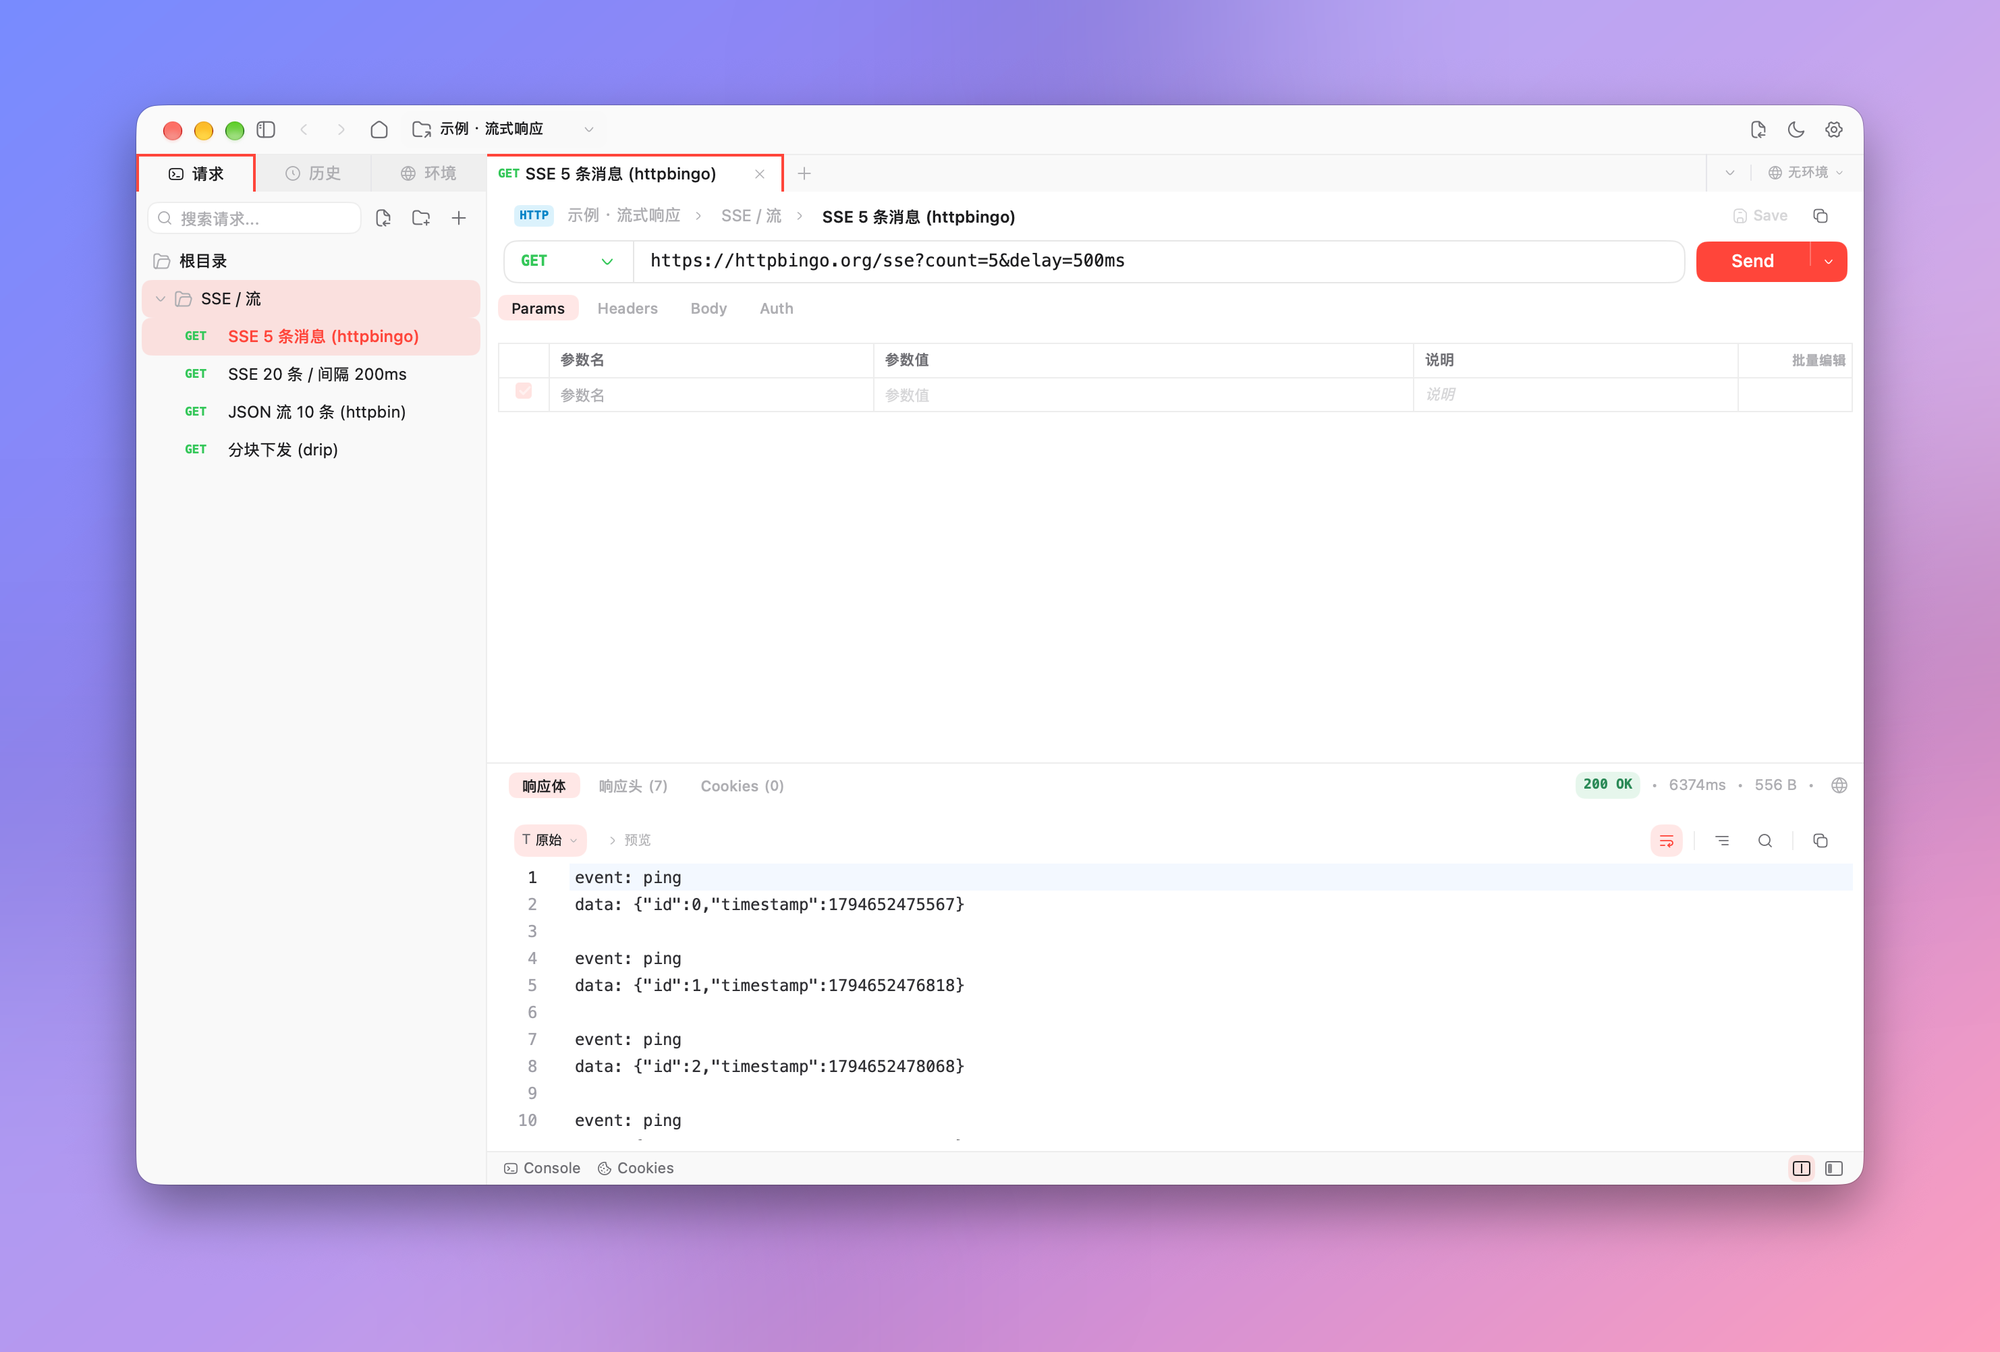
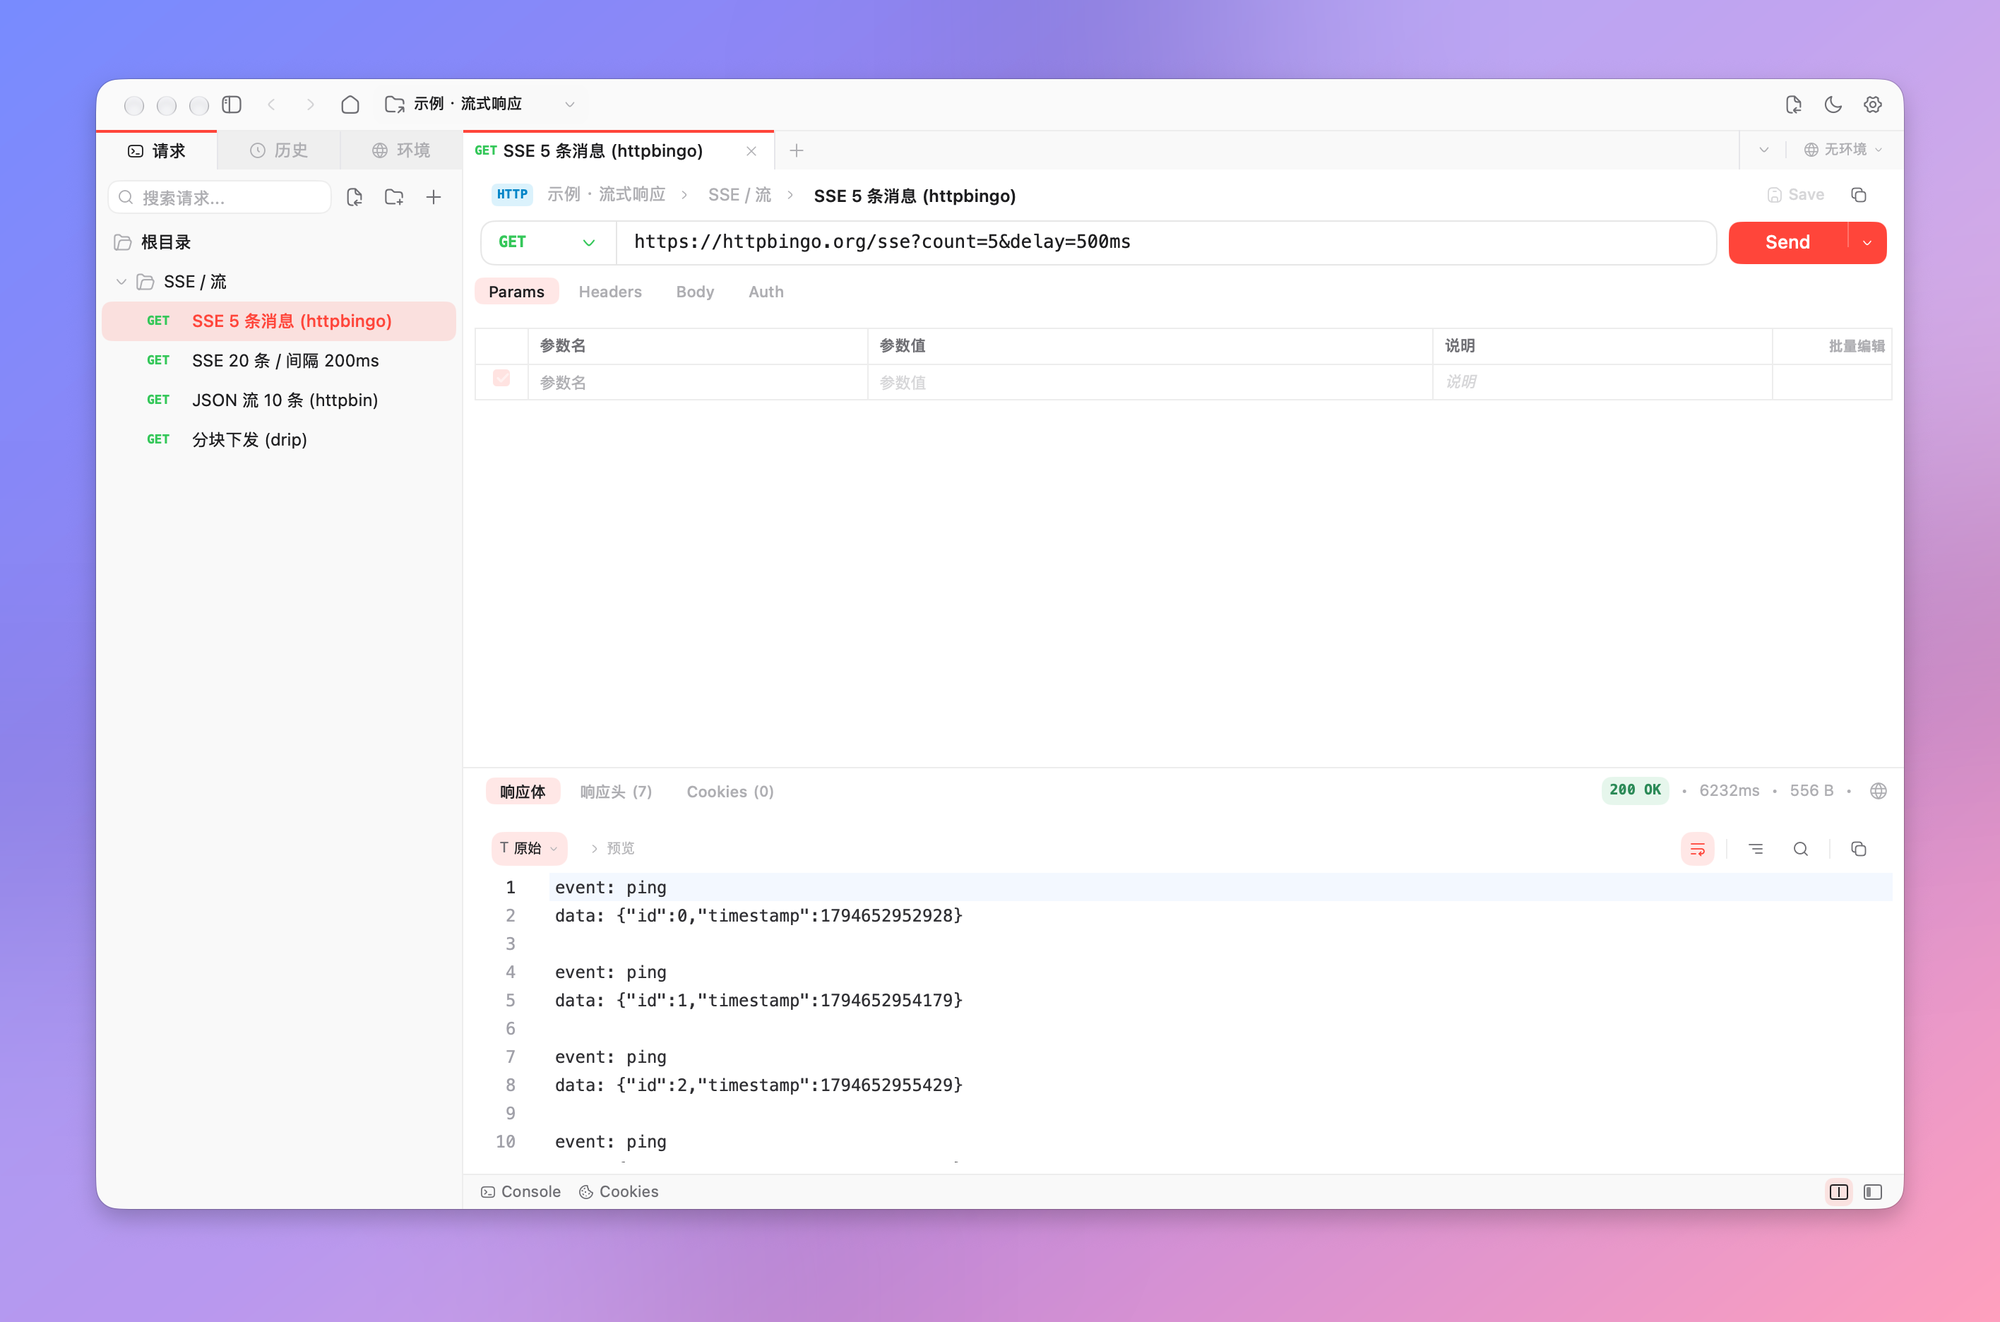
fix: 标签仅保留顶部高亮，侧栏只高亮一行，更新 README 截图

diff --git a/internal/gui/tabbar_test.go b/internal/gui/tabbar_test.go
@@ -119,45 +119,34 @@ func TestTabStripHasSingleTopLine(t *testing.T) {
 	}
 }
 
-// 相邻标签之间不会叠出加粗的竖线：沿标签条中部横扫，任何一条竖线都只有 1px 宽。
-func TestTabStripNoThickVerticalLines(t *testing.T) {
+// 选中标签只有顶部有强调色，左右没有；标签之间的竖分隔线都只有 1px 宽，不会叠成粗线。
+func TestTabStripNoSideHighlightAndThinDividers(t *testing.T) {
 	a, tt, _ := zhApp(t)
 	a.openRequest(a.coll.Requests[0].ID)
 	a.openRequest(a.coll.Requests[1].ID)
 	a.activate(0)
-	a.openRequest(a.coll.Requests[1].ID) // 三种状态：选中在中间、前后各有未选中
+	a.openRequest(a.coll.Requests[1].ID) // 选中第二个，前后各有分隔线
 	tt.Frame()
 	tt.Frame()
 	img := tt.Image()
-	y := sizeToolbar - 1 + sizeTabStrip - 4 // 标签条靠下的一行，避开文字
-	bg := px(img, img.Bounds().Max.X-300, y)
+	y := sizeToolbar - 1 + sizeTabStrip - 4 // 标签条靠下的一行，避开文字和顶部强调线
+	acc, div := rgb(a.p.tabActiveBorder), rgb(a.p.tabDivider)
 	sw := int(a.set.SidebarWidth)
-	// 选中标签两侧：左右各一条强调色线，且紧邻的像素不是第二条线。
-	activeLeft, activeRight := -1, -1
-	for x := sw + 2; x < img.Bounds().Max.X; x++ {
-		if px(img, x, y) == rgb(a.p.tabActiveBorder) {
-			if activeLeft < 0 {
-				activeLeft = x
+	dividers := 0
+	for x := sw; x < img.Bounds().Max.X; x++ {
+		got := px(img, x, y)
+		if got == acc {
+			t.Fatalf("x=%d：选中标签的左右不应有强调色", x)
+		}
+		if got == div {
+			dividers++
+			if px(img, x+1, y) == div {
+				t.Errorf("x=%d：分隔线比 1px 更粗", x)
 			}
-			activeRight = x
 		}
 	}
-	if activeLeft < 0 || activeRight-activeLeft < 100 {
-		t.Fatalf("没找到选中标签的左右边框: %d %d", activeLeft, activeRight)
-	}
-	// 左右边框各自恰好 tabAccentWidth 列宽，紧挨着的外侧/内侧像素是背景（外侧可能是标签条底色或内容区），没有第二条线。
-	outer := []int{activeLeft - 1, activeRight + 1}
-	inner := []int{activeLeft + tabAccentWidth, activeRight - tabAccentWidth}
-	for _, x := range append(outer, inner...) {
-		n := px(img, x, y)
-		if n != bg && n != rgb(a.p.surface) {
-			t.Errorf("选中标签边框旁 x=%d 的像素 %v 不是背景色，边框变粗或叠出了第二条线", x, n)
-		}
-	}
-	for k := 0; k < tabAccentWidth; k++ {
-		if px(img, activeLeft+k, y) != rgb(a.p.tabActiveBorder) || px(img, activeRight-k, y) != rgb(a.p.tabActiveBorder) {
-			t.Errorf("左右边框应各为 %d 列强调色", tabAccentWidth)
-		}
+	if dividers < 2 {
+		t.Errorf("应至少有 2 条标签分隔线，实际 %d", dividers)
 	}
 }
 
@@ -172,7 +161,7 @@ func TestTabWidthStableOnSwitch(t *testing.T) {
 	a.activate(0)
 	tt.Frame()
 	tt.Frame()
-	y := sizeToolbar - 1 + sizeTabStrip - 4
+	y := sizeToolbar - 1 // 顶部强调线所在行
 	img0 := tt.Image()
 	// 选中第一个标签时，第二个标签从 sw+tabWidth 开始（第一个标签 + 无分隔线）；
 	// 选中第二个标签时，它的左边框也应从同一列开始。
@@ -181,10 +170,11 @@ func TestTabWidthStableOnSwitch(t *testing.T) {
 	tt.Frame()
 	img1 := tt.Image()
 	acc := rgb(a.p.tabActiveBorder)
-	if px(img1, sw+tabWidth, y) != acc {
-		t.Errorf("选中第二个标签时左边框应在 x=%d", sw+tabWidth)
+	// 第一个标签占 [sw, sw+tabWidth)，分隔线在 sw+tabWidth，第二个标签从 sw+tabWidth+1 开始。
+	if px(img1, sw+tabWidth+1, y) != acc || px(img1, sw+tabWidth, y) == acc {
+		t.Errorf("选中第二个标签时顶部强调线应从 x=%d 开始", sw+tabWidth+1)
 	}
-	if px(img0, sw+tabWidth-1, y) != acc {
-		t.Errorf("选中第一个标签时右边框应在 x=%d", sw+tabWidth-1)
+	if px(img0, sw+tabWidth-1, y) != acc || px(img0, sw+tabWidth, y) == acc {
+		t.Errorf("选中第一个标签时顶部强调线应在 x=%d 结束", sw+tabWidth-1)
 	}
 }

diff --git a/internal/gui/sidebar.go b/internal/gui/sidebar.go
@@ -28,9 +28,8 @@ func (a *app) sidebar(c *ui.Context) {
 	})
 }
 
-// sideTabs 是 28px 高的标签条：三等分，样式与请求标签一致——方正、选中项左/上/右强调色边框、
-// 下边不画线并与下方列表连成一体；未选中项底色稍深。顶线由标签条自己画（被选中项的边框盖住），
-// 选中项最右侧紧贴侧栏分隔线时不画右边框，避免两条竖线叠在一起。
+// sideTabs 是 28px 高的标签条：三等分，样式与请求标签一致——方正、选中项只有顶部 2px 强调线、
+// 下边不画线并与下方列表连成一体；未选中项底色稍深。顶线由标签条自己画（被选中项的强调线盖住）。
 func (a *app) sideTabs(c *ui.Context) {
 	p := a.p
 	items := []struct{ icon, zh, en string }{
@@ -53,11 +52,7 @@ func (a *app) sideTabs(c *ui.Context) {
 			b := ui.ButtonBase(c.Key("sidetab" + it.en)).Grow(1).Basis(0).Height(h).Gap(6).AlignItems(ui.Center).Justify(ui.Center)
 			switch {
 			case active:
-				right := float32(tabAccentWidth)
-				if i == len(items)-1 {
-					right = 0
-				}
-				b = b.Background(p.sidebar).BorderWidth(tabAccentWidth, right, 0, tabAccentWidth).BorderColor(p.tabActiveBorder)
+				b = b.Background(p.sidebar).BorderWidth(tabAccentWidth, 0, 0, 0).BorderColor(p.tabActiveBorder)
 			case b.Hovered():
 				b = b.Background(p.hover)
 			default:
@@ -70,8 +65,8 @@ func (a *app) sideTabs(c *ui.Context) {
 			if b.Clicked() {
 				a.side.tab = i
 			}
-			// 未选中项之间的竖分隔线；选中项自带边框，两侧不再画。
-			if i < len(items)-1 && !active && a.side.tab != i+1 {
+			// 标签之间的竖分隔线。
+			if i < len(items)-1 {
 				ui.Box(c.Key("sidediv" + it.en)).Width(1).Height(sizeTabStrip - 1).Shrink(0).Background(p.tabDivider)
 			}
 		}
@@ -262,10 +257,8 @@ func (a *app) requestRow(c *ui.Context, id string, depth int) {
 		return
 	}
 	p := a.p
-	active := false
-	if t := a.activeTab(); t != nil && t.draft.ID == id {
-		active = true
-	}
+	// 侧栏只高亮一行：选中的节点（点过的文件夹/请求，没有时是当前标签对应的请求）。
+	active := a.selectedNode() == id
 	row := ui.ButtonBase(c.Key("r:" + id)).Height(28).MarginX(4).PaddingStart(20 + float32(depth)*12).PaddingEnd(8).Radius(radiusBtn).Gap(4).
 		AlignItems(ui.Center).Justify(ui.Start).ContextMenu(func(m *ui.Menu) { a.nodeMenu(m, id) })
 	hover := row.Hovered()

diff --git a/internal/gui/tabbar.go b/internal/gui/tabbar.go
@@ -52,7 +52,7 @@ func (a *app) tabAction(c *ui.Context, name, tip string, size float32) bool {
 	})
 }
 
-// tabWidth 是请求标签的固定宽度；tabAccentWidth 是选中标签强调色边框的粗细（与旧版 2px 的强调线一致）。
+// tabWidth 是请求标签的固定宽度；tabAccentWidth 是选中标签顶部强调线的粗细（与旧版 2px 的强调线一致）。
 const (
 	tabWidth       = 220
 	tabAccentWidth = 2
@@ -66,9 +66,8 @@ func stripTopLine(c *ui.Context, col ui.Color) {
 }
 
 // tabItem 绘制一个请求标签：方法、标题、未保存圆点与悬停时出现的关闭按钮。
-// 标签是方正的：选中的标签只在左、上、右画强调色边框，下边不画线，背景和下方内容区一致，看起来与内容区连成一体。
-// 相邻标签之间只有一条竖分隔线；选中标签自带左右边框，它两侧不再画分隔线；
-// 第一个标签紧贴侧栏的分隔线时不再画左边框，避免两条竖线叠在一起。鼠标中键点击标签可关闭它。
+// 标签是方正的：选中的标签只在顶部画一条 2px 强调线，背景和下方内容区一致，看起来与内容区连成一体。
+// 相邻标签之间只有一条 1px 竖分隔线。鼠标中键点击标签可关闭它。
 func (a *app) tabItem(c *ui.Context, i int, t *tab) {
 	p := a.p
 	active := i == a.active && !a.showHome
@@ -93,11 +92,7 @@ func (a *app) tabItem(c *ui.Context, i int, t *tab) {
 	hover := cell.Hovered()
 	switch {
 	case active:
-		left := float32(tabAccentWidth)
-		if i == 0 && !a.set.SidebarCollapsed {
-			left = 0 // 左边就是侧栏的分隔线
-		}
-		cell = cell.Background(p.surface).BorderWidth(tabAccentWidth, tabAccentWidth, 0, left).BorderColor(p.tabActiveBorder)
+		cell = cell.Background(p.surface).BorderWidth(tabAccentWidth, 0, 0, 0).BorderColor(p.tabActiveBorder)
 	case hover:
 		cell = cell.Background(p.hover)
 	}
@@ -141,8 +136,8 @@ func (a *app) tabItem(c *ui.Context, i int, t *tab) {
 			a.activate(i)
 		})
 	}
-	// 标签之间的竖分隔线：选中标签自带边框，它两侧不再画。
-	if !active && !(i+1 == a.active && !a.showHome) {
+	// 标签右侧的竖分隔线（选中标签只有顶部强调线，两侧照常画分隔线）。
+	{
 		ui.Box(c.Key("tabdiv:" + t.draft.ID)).Width(1).Height(sizeTabStrip - 1).Shrink(0).Background(p.tabDivider)
 	}
 }

diff --git a/internal/gui/shortcuts_test.go b/internal/gui/shortcuts_test.go
@@ -192,3 +192,30 @@ func TestPromptInputHasHeight(t *testing.T) {
 		t.Fatalf("输入框高度塌缩：上边框 y=%d，下边框 y=%d", top, bottom)
 	}
 }
+
+// 侧栏同一时间只高亮一行：选中了别的节点后，当前标签对应的请求不再高亮。
+func TestSidebarHighlightsSingleRow(t *testing.T) {
+	a, tt, _ := zhApp(t)
+	alpha, beta := a.coll.Requests[0].ID, a.coll.Requests[1].ID
+	a.openRequest(alpha)
+	tt.Frame()
+	r, ok := tt.Find("beta")
+	if !ok {
+		t.Fatal("侧栏里应有 beta")
+	}
+	y := int(r.Y + r.H/2)
+	img := tt.Image()
+	hi := rgb(a.p.sidebar) // 未高亮行的底色
+	if px(img, 12, y-28) == px(img, 12, y) {
+		t.Fatal("初始只有当前标签 alpha 一行高亮，alpha 与 beta 的底色应不同")
+	}
+	a.selectNode(beta)
+	tt.Frame()
+	img = tt.Image()
+	if px(img, 12, y-28) != hi {
+		t.Fatalf("选中 beta 后 alpha 不应再高亮: %v", px(img, 12, y-28))
+	}
+	if px(img, 12, y) == hi {
+		t.Fatal("选中 beta 后 beta 应高亮")
+	}
+}
